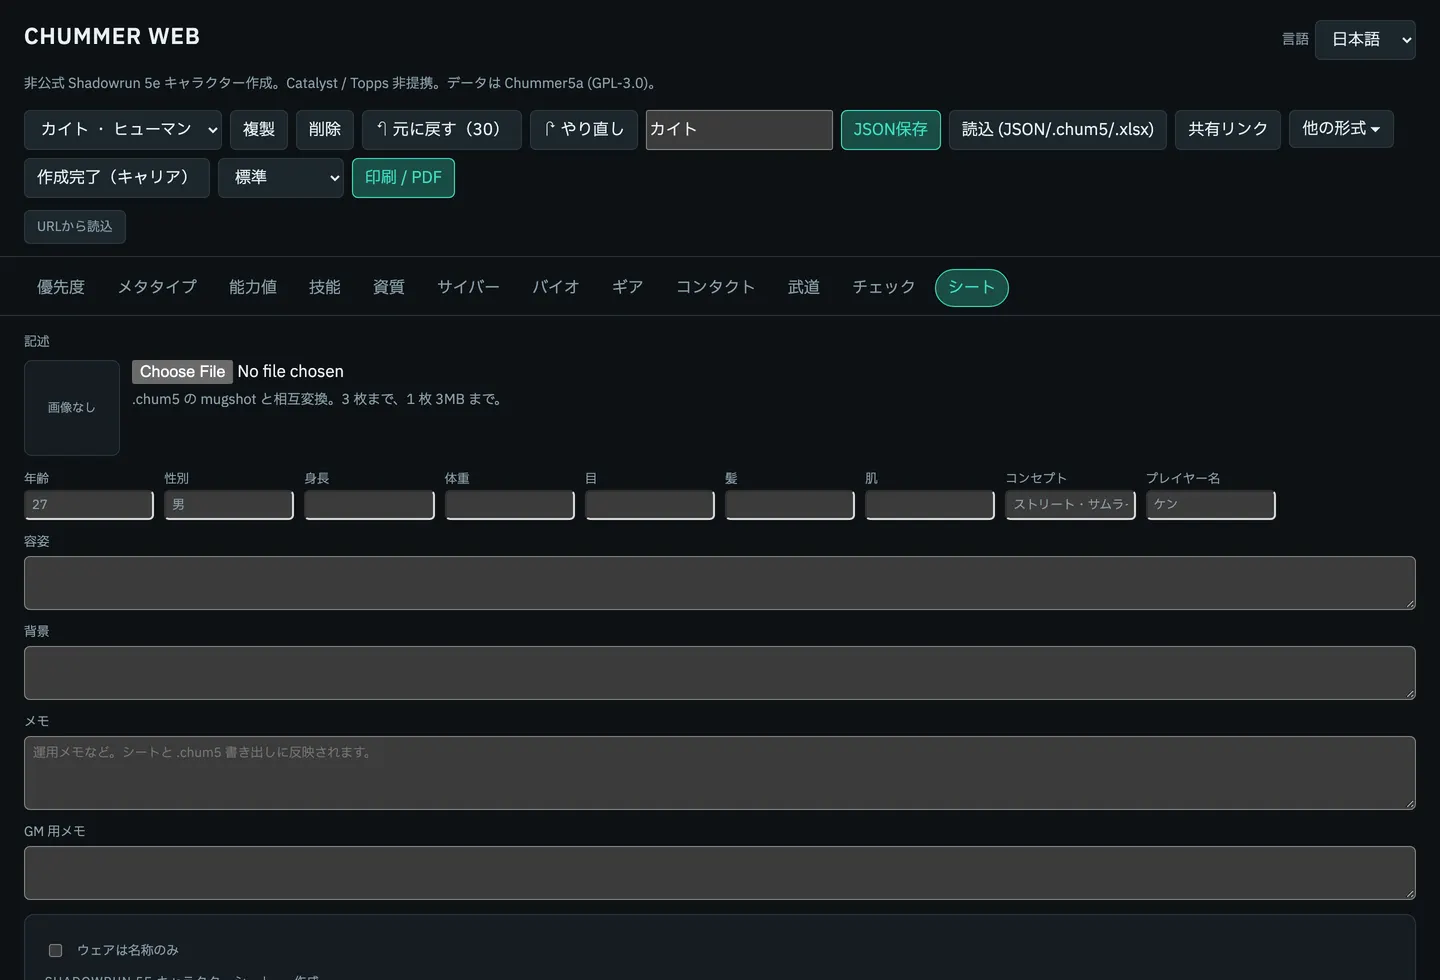
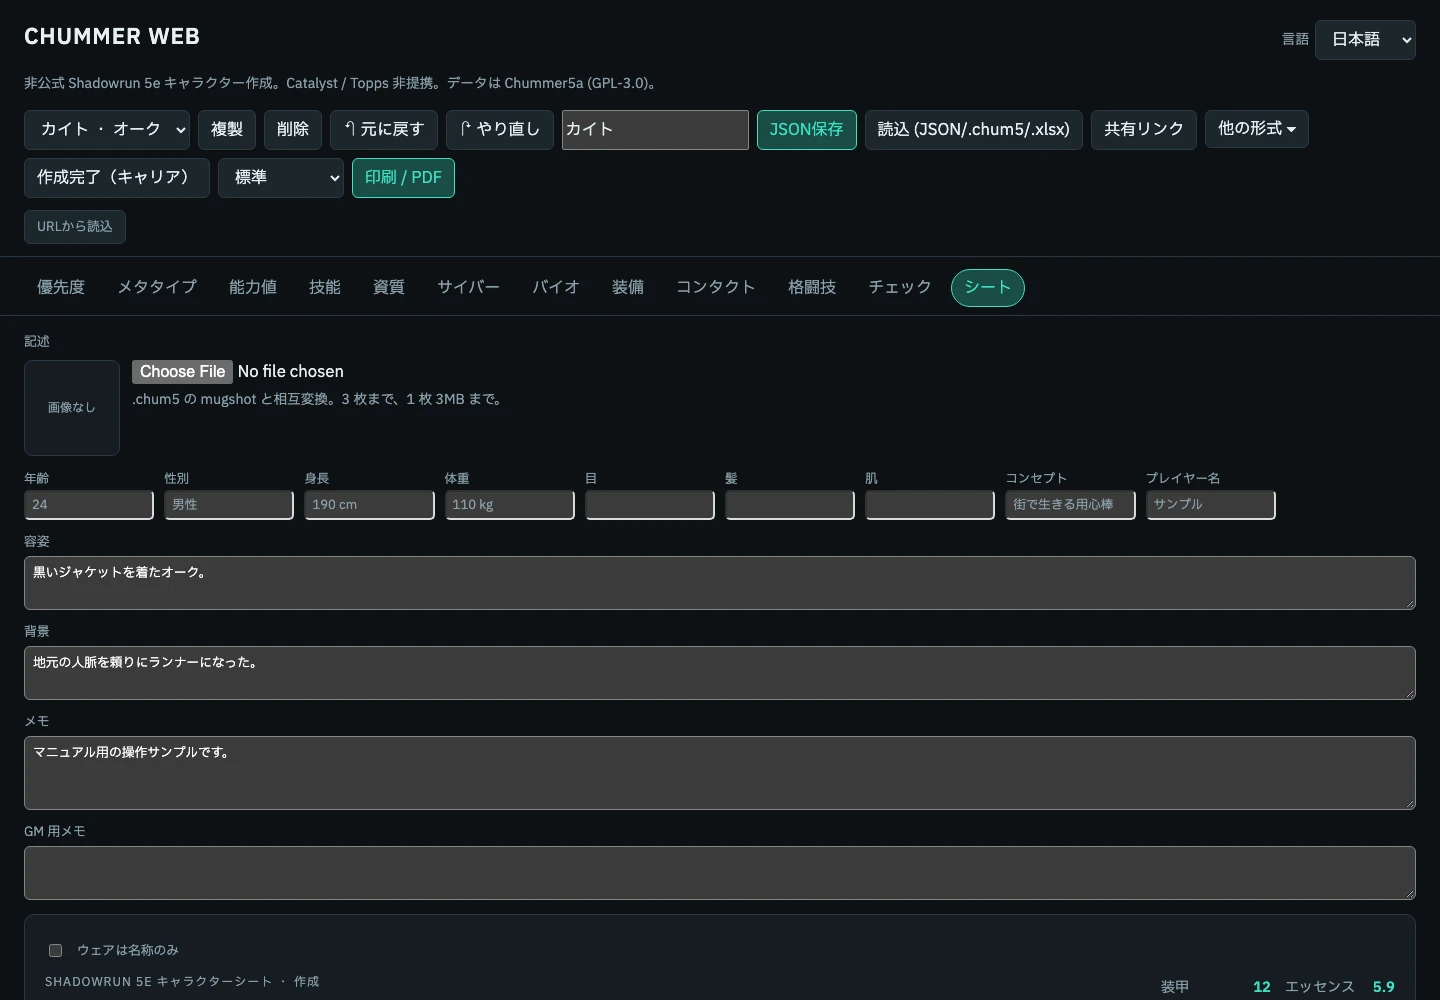
docs: refresh manual terminology and screenshots

diff --git a/frontend/public/manual/index.html b/frontend/public/manual/index.html
@@ -228,7 +228,8 @@
 
       <p class="shot-note">
         掲載している画面は、このマニュアル用に作ったオークのサンプル「カイト」のものです。
-        数値はサンプルのものなので、手元の画面と一致しなくて構いません。
+        本文と画面は v0.5.2（2026年10月16日撮影）の表記に合わせています。
+        数値は操作説明用のサンプルで、作成完了済みのキャラクターではありません。
       </p>
 
       <section id="overview">
@@ -370,7 +371,7 @@
             alt="技能タブ。上部に残点数、技能グループのスライダー一覧が並ぶ画面"
           />
           <figcaption>
-            技能タブ。先頭に「技能 0/36 ・ グループ 0/5 ・ 知識 0/4」と残りが出ます。
+            技能タブ。先頭に技能・技能グループ・知識技能の使用点数と上限が出ます。
           </figcaption>
         </figure>
         <ul>
@@ -379,7 +380,10 @@
             <strong>技能グループ</strong>: グループ点で一括して上げます。中の 1
             つだけを上げたり専門化を取ると グループとしては扱えなくなります。
           </li>
-          <li><strong>専門化</strong>: その用途のテストに +2 ダイス。作成時はカルマ 1 点です。</li>
+          <li>
+            <strong>専門化</strong>: その用途のテストに +2 ダイス。優先度／Sum to Ten
+            の作成時は技能点 1 点で取得でき、カルマでの購入も選べます。
+          </li>
           <li>
             <strong>知識技能</strong>: 無料枠は (INT + LOG) × 2 点。母語が 1 つ無料になります。
           </li>
@@ -398,7 +402,7 @@
           </figcaption>
         </figure>
         <p>
-          ポジティブ資質はカルマを払い、ネガティブ資質はカルマを戻します（戻せる上限があります）。
+          有利な資質はカルマを払い、不利な資質はカルマを戻します（戻せる上限があります）。
           資質によっては対象の指定が必要です（アレルギーの対象、依存症の物質、技能グループなど）。その欄は資質の行の中に出ます。
           前提を満たしていない資質は<strong>理由付き</strong>で購入できません。
         </p>
@@ -424,11 +428,11 @@
         <figure>
           <img
             src="img/tab-gear.webp"
-            alt="装備タブ。防具・武器・コムリンク・サイバーデッキ・RCC・視覚／聴覚・センサー・ヴィークル・ドローン・装備・ドラッグ・ライフスタイルのカテゴリー切り替えと、防具の一覧"
+            alt="装備タブ。防具・武器・コムリンク・サイバーデッキ・RCC・視覚／聴覚・センサー・ヴィークル・ドローン・一般装備・ドラッグ・ライフスタイルのカテゴリー切り替えと、防具の一覧"
           />
           <figcaption>
             装備タブ。上段の<strong>カテゴリー</strong>（防具・武器・コムリンク・サイバーデッキ・ヴィークル・ドラッグ・ライフスタイル…）で
-            買うものを切り替え、下段の絞り込みと検索欄で探して「購入」します。各行に装甲・価格・入手値・出典が出ます。
+            買うものを切り替え、下段の絞り込みと検索欄で探して「購入」します。各行に装甲値などの性能・価格・入手値・出典が出ます。
           </figcaption>
         </figure>
         <figure>
@@ -481,7 +485,7 @@
         <figure>
           <img
             src="img/tab-check.webp"
-            alt="チェックタブ。エラー 0・警告 2・情報 8 の集計と、警告と情報の一覧。各行に「該当タブへ」ボタン"
+            alt="チェックタブ。エラー・警告・情報の件数と、警告と情報の一覧。各行に「該当タブへ」ボタン"
           />
           <figcaption>
             チェックタブ。作成ルール上の問題を<strong>エラー（作成不可）／警告／情報</strong>に分けて並べます。
@@ -512,17 +516,17 @@
             alt="キャラクターシート本体。コアの能力値、イニシアティブ・コンディション・リミット・移動・ライフスタイル、技能表、資質、戦闘の防具と武器"
           />
           <figcaption>
-            その下が完成したキャラクターシートです。ツールバーの<strong>レイアウト</strong>を選び「印刷
+            その下が現在の計算結果をまとめたキャラクターシートです。ツールバーの<strong>レイアウト</strong>を選び「印刷
             / PDF」で出力できます （印刷ダイアログで「PDF として保存」も選べます）。
           </figcaption>
         </figure>
         <figure>
           <img
             src="img/tab-sheet-body2.webp"
-            alt="キャラクターシートの続き。防具と武器の表、レンジと反動、ウェア、コンタクト、記述"
+            alt="キャラクターシートの続き。防具と武器の表、射程と反動、ウェア、コンタクト、記述"
           />
           <figcaption>
-            シートの続き。戦闘（防具・武器のレンジと反動）、ウェア、コンタクト、記述と並びます。
+            シートの続き。戦闘（防具・武器の射程と反動）、ウェア、コンタクト、記述と並びます。
           </figcaption>
         </figure>
 
@@ -547,7 +551,11 @@
         </figure>
         <ul>
           <li><strong>JSON</strong>: このアプリのバックアップ。「読込」でそのまま戻せます。</li>
-          <li><strong>.chum5</strong>: Chummer 本体で開ける形式。</li>
+          <li>
+            <strong>.chum5</strong>: Chummer
+            向けの保存形式。ライフモジュールは対応設定と手順書を含む ZIP
+            で出力します。本体での実動作互換は未検証なので、JSON バックアップも保管してください。
+          </li>
           <li>
             <strong>.xlsx</strong> / <strong>Foundry VTT</strong> / <strong>ココフォリア</strong> /
             <strong>ユドナリウム</strong> / <strong>チャットパレット</strong>。

diff --git a/docs/chargen.md b/docs/chargen.md
@@ -24,9 +24,9 @@
 
 ## 1. ルールブックと作成方式を決める（優先度タブ）
 
-「優先度」タブの一番上がルールセットの選択です。
+「優先度」タブの一番上がセッティングの選択です。
 
-1. **ルールセット** のプルダウンで Chummer 同梱のプリセット（Standard、Prime Runner など）を
+1. **セッティング** のプルダウンで Chummer 同梱のプリセット（Standard、Prime Runner など）を
    選びます。自分の Chummer のフォルダから設定ファイルを読み込むこともできます
    （`settings/` と `customdata/` を含むフォルダ、または その zip）。
 2. **ルールブックを選ぶ** で購入対象を絞れます。チェックを外した本の項目は購入一覧に出
@@ -53,7 +53,7 @@
 ## 2. メタタイプを決める（メタタイプタブ）
 
 メタタイプと種族（メタバリアント）を選びます。ここで能力値の下限・上限と、種族固有の
-資質・クリッターパワーが決まります。選んだ種族が持つものは「固定」として表示され、
+資質・クリッター・パワーが決まります。選んだ種族が持つものは「固定」として表示され、
 削除できません。
 
 ## 3. 能力値を割り振る（能力値タブ）
@@ -66,12 +66,12 @@
 - **技能**: レーティングがテストのダイス数（＋関連能力値）になります。
 - **技能グループ**: グループ点で一括して上げます。中の 1 つだけを上げたり専門化を取ると
   グループとしては扱えなくなります。
-- **専門化**: その用途のテストに +2 ダイス。作成時はカルマ 1 点です。
+- **専門化**: その用途のテストに +2 ダイス。優先度／Sum to Ten の作成時は技能点 1 点で取得でき、カルマでの購入も選べます。
 - **知識技能**: 無料枠は (INT + LOG) × 2 点。母語が 1 つ無料になります。
 
 ## 5. 資質を取る（資質タブ）
 
-ポジティブ資質はカルマを払い、ネガティブ資質はカルマを戻します（戻せる上限があります）。
+有利な資質はカルマを払い、不利な資質はカルマを戻します（戻せる上限があります）。
 資質によっては対象の指定が必要です（アレルギーの対象、依存症の物質、技能グループなど）。
 その欄は資質の行の中に出ます。前提を満たしていない資質は理由付きで購入できません。
 
@@ -79,7 +79,7 @@
 
 - **サイバー**・**バイオ**: エッセンスを削って能力を上げます。等級を上げるとエッセンスの
   消費が減り、価格と入手値が上がります。
-- **装備**: 武器・防具・電子機器・デッキ・乗物、そして**ライフスタイル**。資金の優先度で決まった
+- **装備**: 武器・防具・電子機器・サイバーデッキ・ヴィークル、そして**ライフスタイル**。資金の優先度で決まった
   開始新円から払います。
 - 作成時は**入手値**が上限（標準 12）を超える品物を買えません。
 

diff --git a/scripts/README.md b/scripts/README.md
@@ -1,5 +1,25 @@
 # Publishing
 
+## Manual screenshots
+
+The illustrated manual lives in `frontend/public/manual/`. To refresh all 18
+screenshots with the same Japanese sample character, start the local API on
+8100 and the frontend on 3100 (set `BACKEND_ORIGIN=http://127.0.0.1:8100`
+when building the frontend as well as when starting it), then run:
+
+```sh
+node scripts/capture-manual.mjs
+```
+
+The script requires Playwright Chromium (`npx playwright install chromium`).
+`MANUAL_ORIGIN` can override the frontend URL. It uses an isolated browser
+context, creates the sample through the real API, and replaces the WebP images
+in `public/manual/img/`. Review the images and update the manual's capture date,
+captions, and sample description together. Check image loading with
+`cd frontend && npm run test:e2e -- e2e/manual.spec.ts --workers=1`.
+
+## Application publishing
+
 `publish.sh` pushes a feature branch, creates or reuses its PR, waits for checks,
 merges it, waits for CI on that exact merge commit, and deploys the immutable
 artifact extracted from that CI's logs. It changes the live service.

diff --git a/changelog.d/manual-terminology-screenshots.changed.md b/changelog.d/manual-terminology-screenshots.changed.md
@@ -1,0 +1,1 @@
+- **利用マニュアルの画面を更新しました。** 用語を整えた現在の画面で全18枚のスクリーンショットを撮り直し、本文と画像説明を揃えました。専門化の購入方法とライフモジュールの書き出しに関する説明も更新しています。
